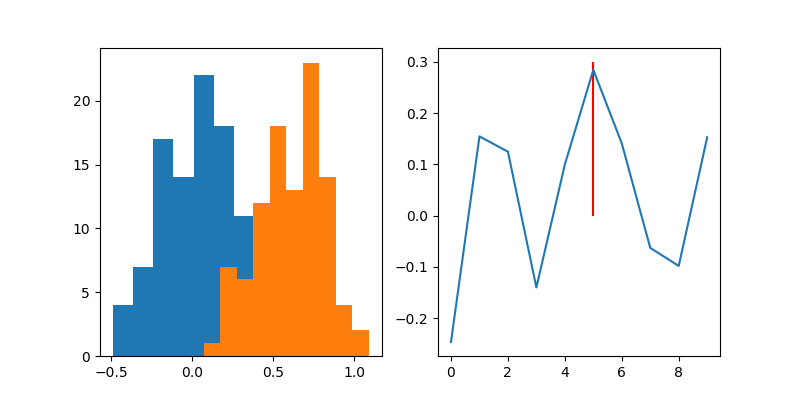
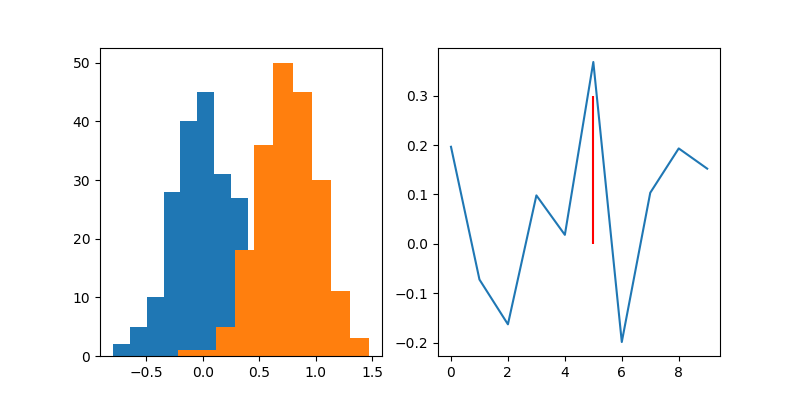
splitted train and test samples to be correct

diff --git a/simple_dense/simple_dense.py b/simple_dense/simple_dense.py
@@ -20,12 +20,14 @@ from torch.autograd import Variable
 
 
 ## generate data ##
-n   = 200
+n   = 400
 t   = 10
 a   = np.zeros((n,t),dtype=np.float32) 
 a[::1,5] = -1
 a[1::2,5] = 1
+c = np.copy(a)
 a   += np.random.randn(n,t)*.5
+c   += np.random.randn(n,t)*.5
 b   = np.zeros((n), dtype=np.float32)
 b[1::2] = 1
 
@@ -61,7 +63,7 @@ for i in range(10):
 		optimizer.step()
 		print epoch,':',loss.data[0]
 
-	predicted = model(Variable(torch.from_numpy(a))).data.numpy()
+	predicted = model(Variable(torch.from_numpy(c))).data.numpy()
 	plt.figure(figsize=(8,4))
 	plt.subplot(121)
 	plt.hist(predicted[::2])
